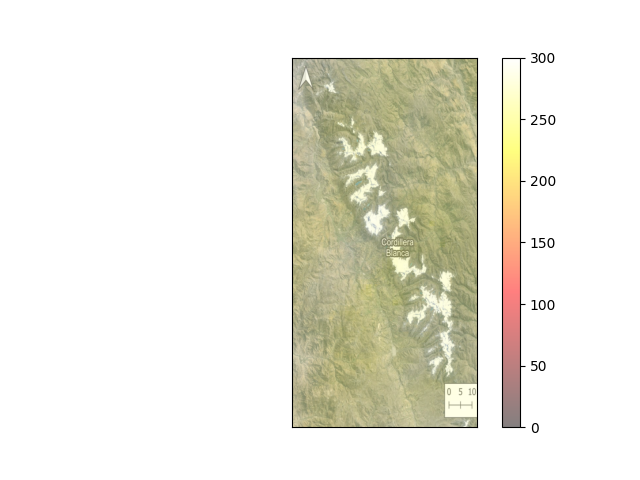
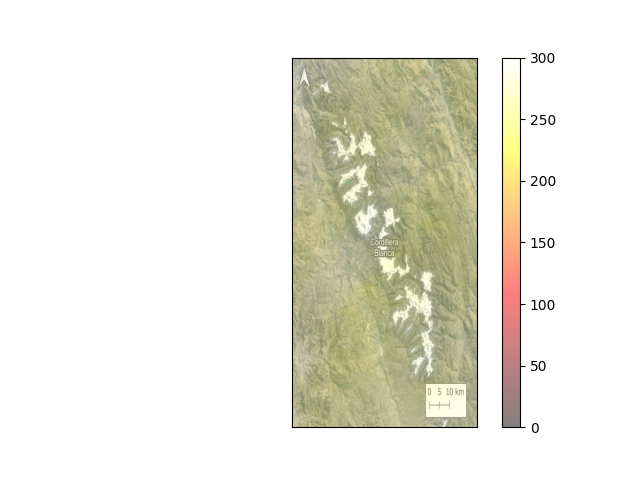
aea

Changed region(s): [[0.4688, 0.125, 0.75, 0.9062]]

diff --git a/Outputs/AI/build_dataset.py b/Outputs/AI/build_dataset.py
@@ -233,7 +233,7 @@ def show_input_images(data):
 
 
     imagen = Image.open('./images/map.png')
-    imagen = imagen.resize((480,840)) # USE 480, 840 for input, output: 420, 840
+    imagen = imagen.resize((420,840)) # USE 480, 840 for input, output: 420, 840
     imagen_array = np.array(imagen)    
 
     samples = []
